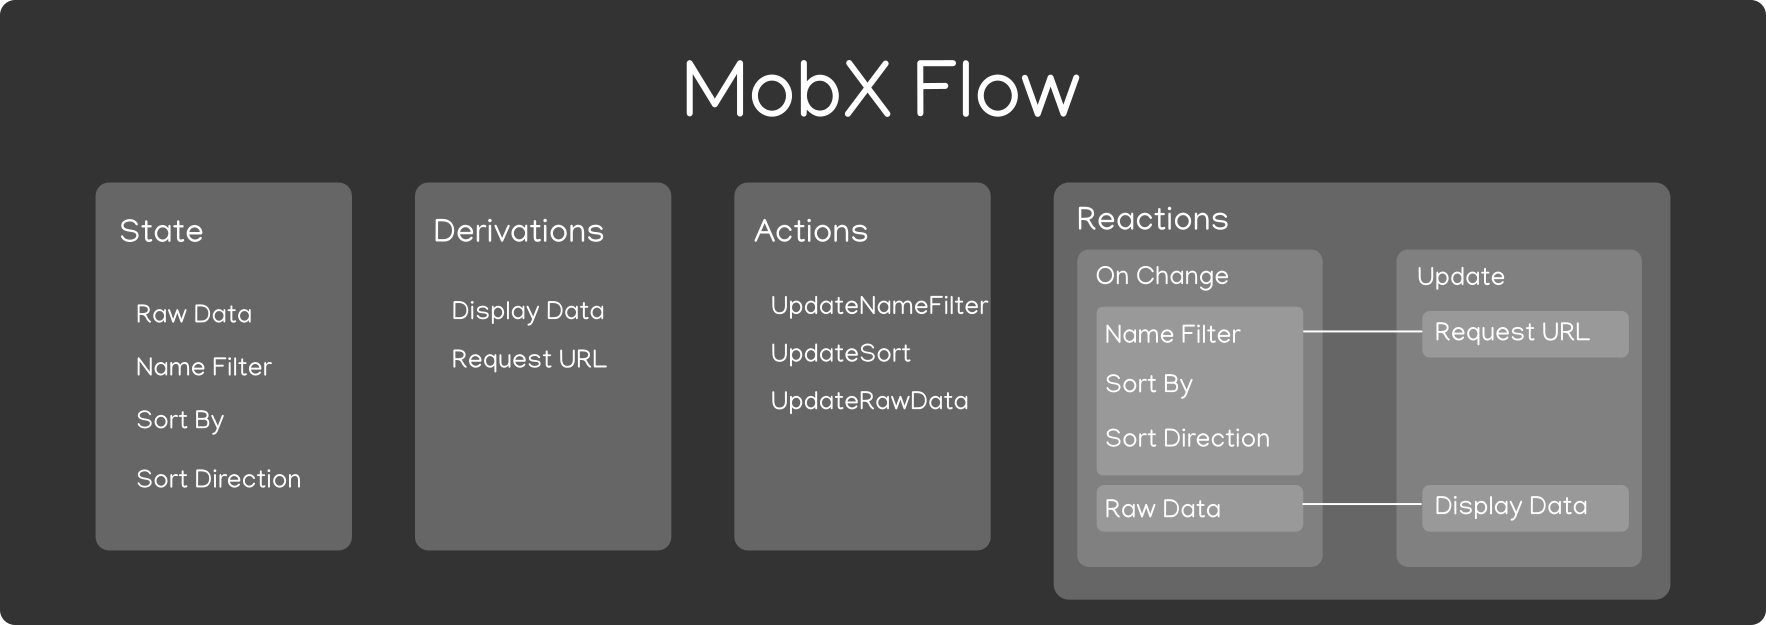
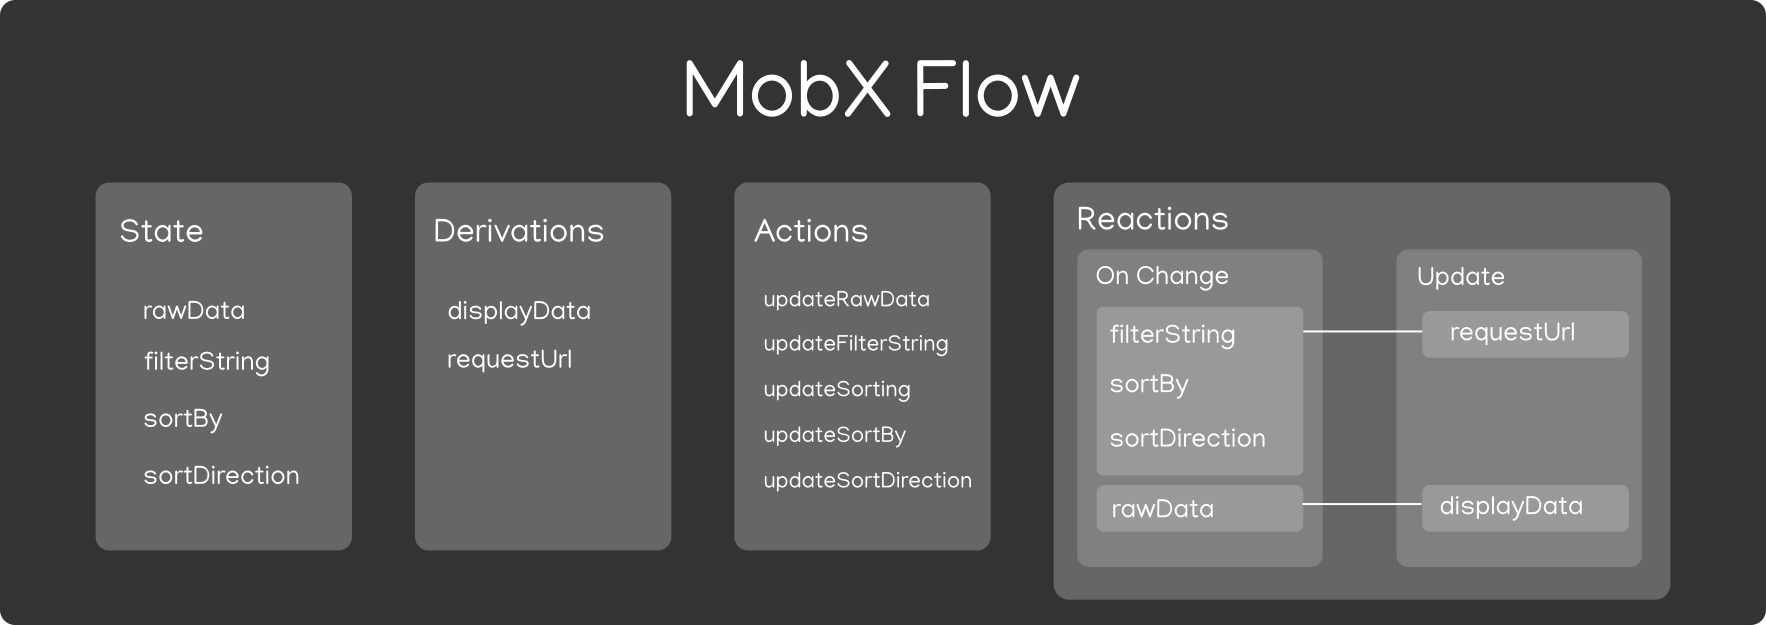
Updated doc diagram

diff --git a/components/CryptoTable/CryptoTable.tsx b/components/CryptoTable/CryptoTable.tsx
@@ -43,7 +43,6 @@ class CryptoService {
     static baseServerUrl = "http://localhost:3000/api/crypto?"
     // TODO: Add an interface for this
     rawData: any[] = []
-    // TODO: Update name in doc diagram
     filterString: string = ""
     sortBy: keyof RowData = columns[0]
     sortDirection: SortDirections = SortDirections.desc
@@ -60,12 +59,10 @@ class CryptoService {
         }, 5000)
     }
 
-    // TODO: Update name in doc diagram
     updateFilterString(newNameFilter: string) {
         this.filterString = newNameFilter
     }
 
-    // TODO: Add to doc diagram
     updateSorting(field: keyof RowData) {
         this.updateSortBy(field)
 
@@ -74,7 +71,6 @@ class CryptoService {
         this.updateSortDirection(reversed ? SortDirections.desc : SortDirections.asc)
     }
 
-    // TODO: Update doc diagram action name
     updateSortBy(newSortBy: keyof RowData) {
         this.sortBy = newSortBy
     }
@@ -83,14 +79,14 @@ class CryptoService {
         this.sortDirection = newSortDirection
     }
 
-    // TODO: Add to doc diagram
     updateRawData(newRawData: any[]) {
         this.rawData = newRawData
     }
 
     get requestUrl(): string {
         // TODO: Update the search parameters to include updates to sort, and sort_dir
-        return CryptoService.baseServerUrl + "start=1&limit=10&sort=market_cap&sort_dir=desc&cryptocurrency_type=all&tag=all"
+        return CryptoService.baseServerUrl + "start=1&limit=10&sort=market_cap&sort_dir=desc&" +
+            "cryptocurrency_type=all&tag=all"
     }
 
     get displayData(): RowData[] {
